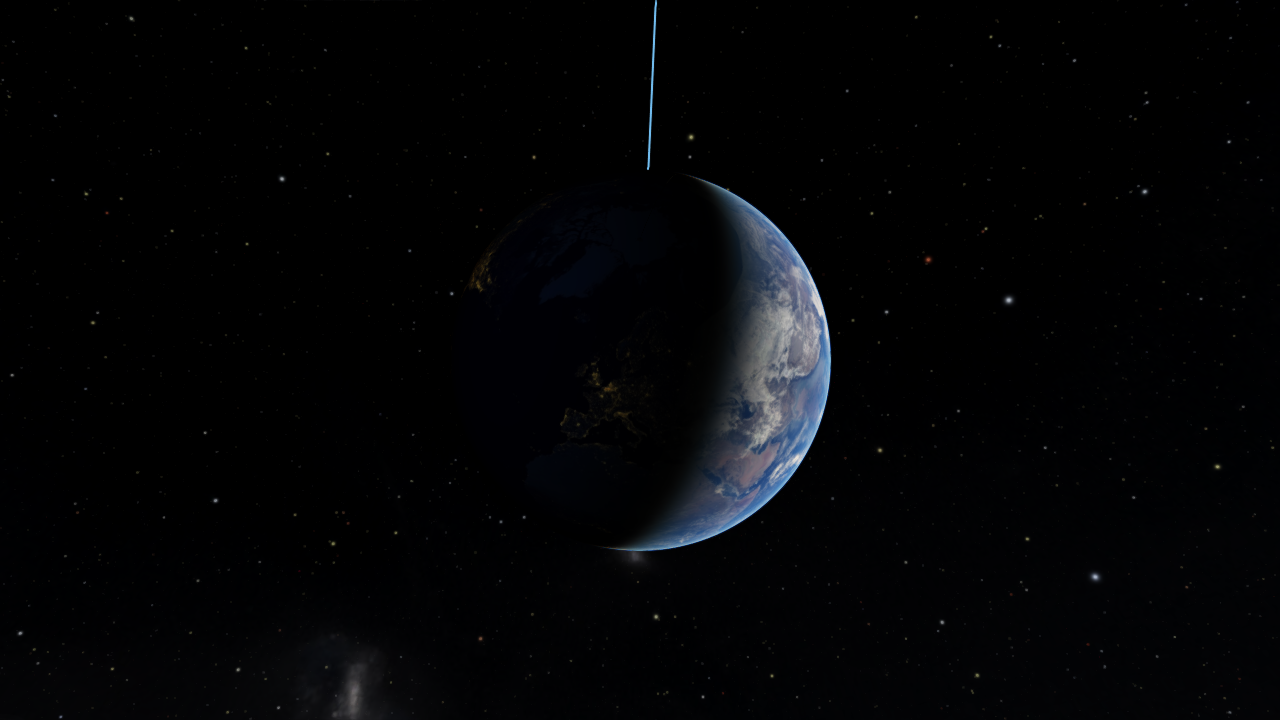
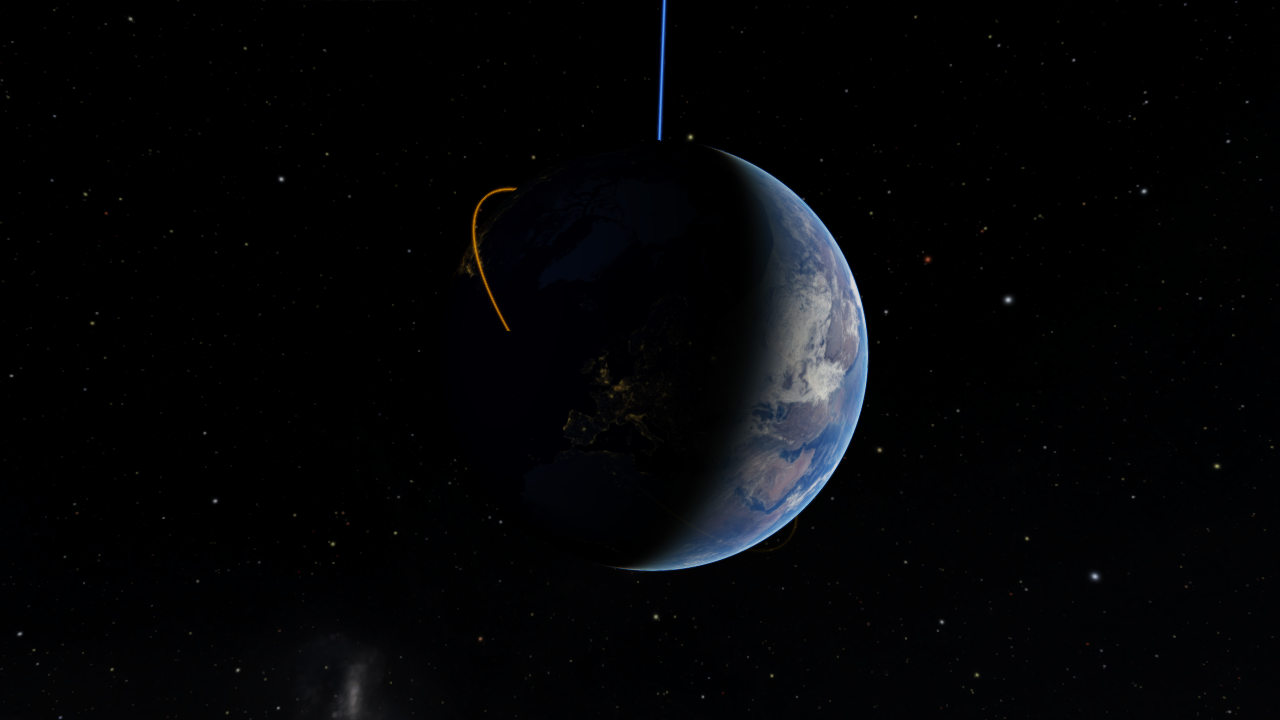
update for launcher and new default earth target.

diff --git a/OpenSpaceVisualTesting/AssetTester.cs b/OpenSpaceVisualTesting/AssetTester.cs
@@ -66,10 +66,10 @@ namespace OpenSpaceVisualTesting
             string scenarioName = testName.Substring(0, testName.LastIndexOf(".ostest"));
 
             Console.WriteLine("testName '{0}.{1}'.", testGroup, scenarioName);
-            //if (scenarioName != "DefaultSolarSystem")
-            //{
-            //    return;
-            //}
+            if (scenarioName != "DefaultEarth")
+            {
+                return;
+            }
             Console.WriteLine("Starting asset '{0}'.", testGroup);
 
             OpenSpaceSession.Setup(testGroup.ToLower());

diff --git a/OpenSpaceVisualTesting/OpenSpaceSession.cs b/OpenSpaceVisualTesting/OpenSpaceSession.cs
@@ -35,6 +35,7 @@ namespace OpenSpaceVisualTesting
                 configValues += "ModuleConfigurations.WebBrowser.Enabled=false;";
                 configValues += "ModuleConfigurations.WebGui={};";
                 configValues += "ModuleConfigurations.GlobeBrowsing.WMSCacheEnabled=true;";
+                configValues += "BypassLauncher=true;";
 
                 string args = "--config \"" + configValues + "Profile='" + asset + "'\"";
                 appCapabilities.SetCapability("appArguments", args);
